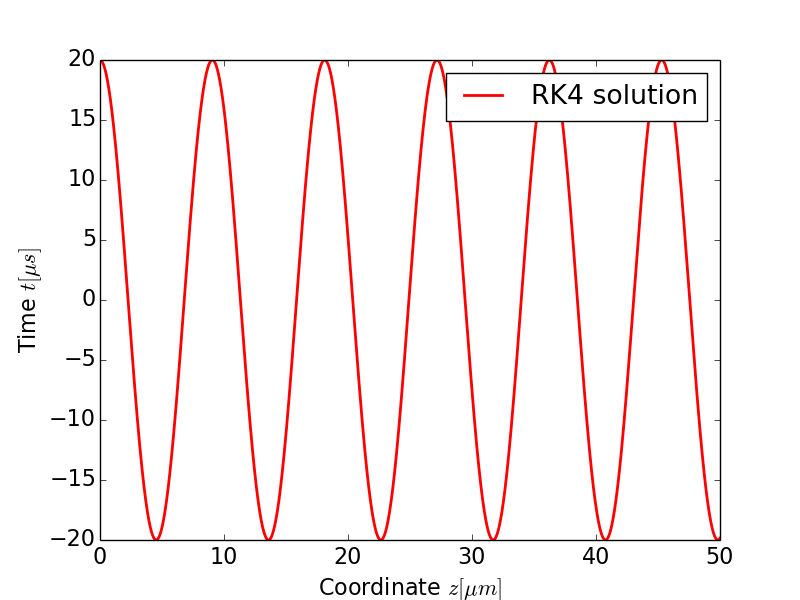
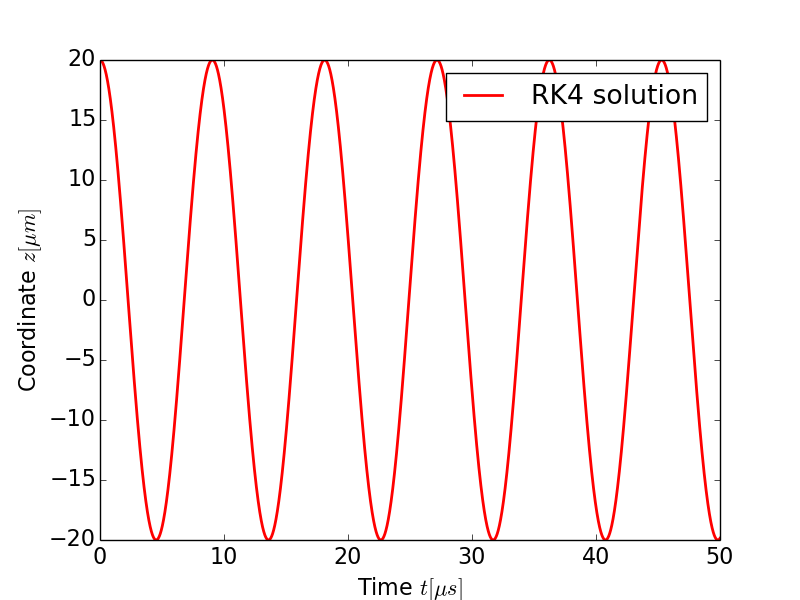
a

Changed region(s): [[0.0, 0.36, 0.0625, 0.66], [0.375, 0.96, 0.625, 1.0]]

diff --git a/project3/single_particle/RK4_1particle_plotscript_16k.py b/project3/single_particle/RK4_1particle_plotscript_16k.py
@@ -31,38 +31,38 @@ for i in range(len(rows)):
 plt.rcParams['font.size'] = '16'
 
 plt.figure(1)
-plt.xlabel('Coordinate $z [ \mu m]$')
-plt.ylabel('Time $t [ \mu s]$')
+plt.xlabel('Time $t [ \mu s]$')
+plt.ylabel('Coordinate $z [ \mu m]$')
 plt.plot(t,z, label = "RK4 solution", linewidth = 2, color = "r")
 plt.legend()
 
 plt.figure(2)
-plt.xlabel('Coordinate $x [ \mu m]$')
-plt.ylabel('Time $t [ \mu s]$')
+plt.xlabel('Time $t [ \mu s]$')
+plt.ylabel('Coordinate $x [ \mu m]$')
 plt.plot(t,x, label = "RK4 solution", linewidth = 2, color = "r")
 plt.legend()
 
 plt.figure(3)
-plt.xlabel('Coordinate $y [ \mu m]$')
-plt.ylabel('Time $t [ \mu s]$')
+plt.xlabel('Time $t [ \mu s]$')
+plt.ylabel('Coordinate $y [ \mu m]$')
 plt.plot(t,y, label = "RK4 solution", linewidth = 2, color = "r")
 plt.legend()
 
 plt.figure(4)
-plt.xlabel('Speed $V_x [ \mu m]$')
-plt.ylabel('Time $t [ \mu s]$')
+plt.ylabel('Speed $V_x [ \mu m]$')
+plt.xlabel('Time $t [ \mu s]$')
 plt.plot(t,vx, label = "RK4 solution", linewidth = 2, color = "r")
 plt.legend()
 
 plt.figure(5)
-plt.xlabel('Speed $V_y [ \mu m]$')
-plt.ylabel('Time $t [ \mu s]$')
+plt.ylabel('Speed $V_y [ \mu m]$')
+plt.xlabel('Time $t [ \mu s]$')
 plt.plot(t,vy, label = "RK4 solution", linewidth = 2, color = "r")
 plt.legend()
 
 plt.figure(6)
-plt.xlabel('Speed $V_z [ \mu m]$')
-plt.ylabel('Time $t [ \mu s]$')
+plt.ylabel('Speed $V_z [ \mu m]$')
+plt.xlabel('Time $t [ \mu s]$')
 plt.plot(t,vz, label = "RK4 solution", linewidth = 2, color = "r")
 plt.legend()
 plt.show()
